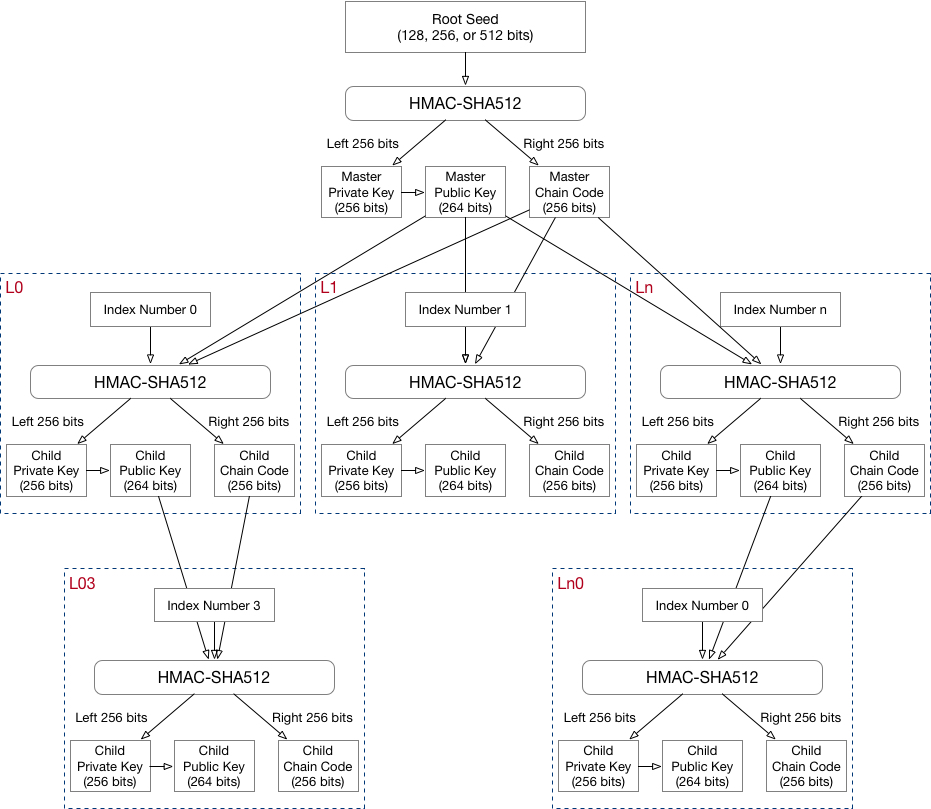
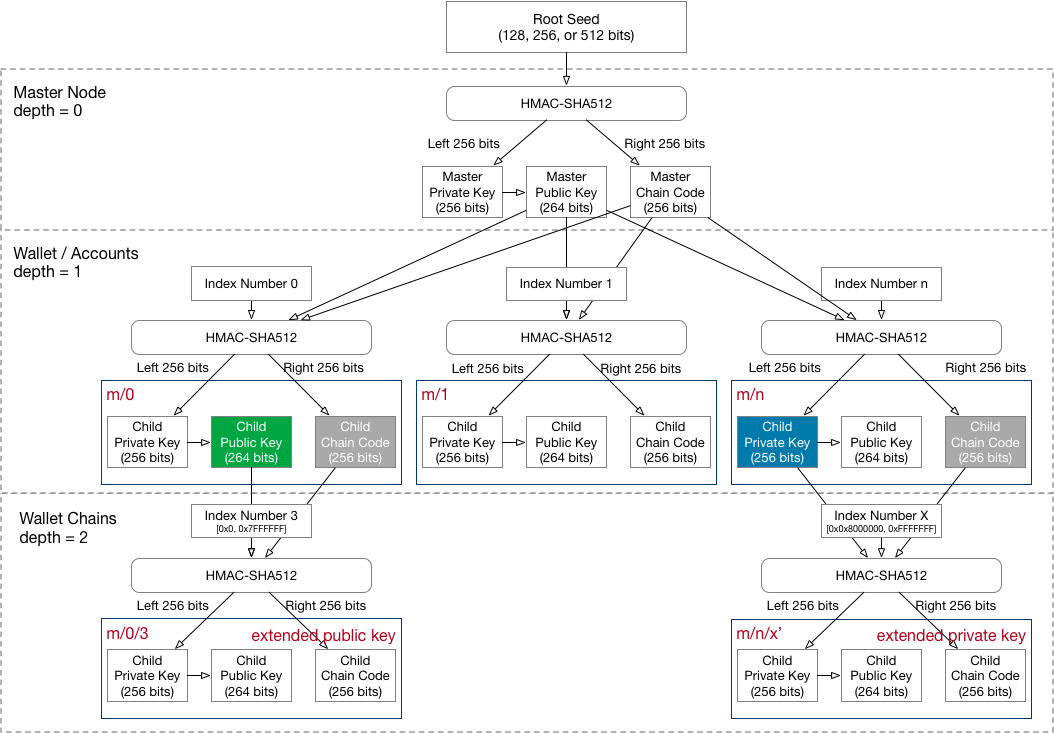
Site updated: 2018-09-29 20:30:12

diff --git a/2018/09/23/generate-hd-wallet-by-bip39.html b/2018/09/23/generate-hd-wallet-by-bip39.html
@@ -118,8 +118,10 @@
 <meta property="og:image" content="http://stevenocean.github.io/2018/09/23/generate-hd-wallet-by-bip39/generate-seed.jpg">
 <meta property="og:image" content="http://stevenocean.github.io/2018/09/23/generate-hd-wallet-by-bip39/generate-hd-master-key.jpg">
 <meta property="og:image" content="http://stevenocean.github.io/2018/09/23/generate-hd-wallet-by-bip39/hd-key-derivation-bip32.jpg">
+<meta property="og:image" content="http://stevenocean.github.io/2018/09/23/generate-hd-wallet-by-bip39/extend-pubkey.jpg">
+<meta property="og:image" content="http://stevenocean.github.io/2018/09/23/generate-hd-wallet-by-bip39/hardened_derivation.jpg">
 <meta property="og:image" content="http://stevenocean.github.io/2018/09/23/generate-hd-wallet-by-bip39/generate-hd-wallet.jpg">
-<meta property="og:updated_time" content="2018-09-20T06:35:11.691Z">
+<meta property="og:updated_time" content="2018-09-29T09:17:51.385Z">
 <meta name="twitter:card" content="summary">
 <meta name="twitter:title" content="基于 BIP-32 和 BIP-39 规范生成 HD 钱包（分层确定性钱包）">
 <meta name="twitter:description" content="关于 Bitcoin 的钱包 在 Bitcoin 中有两种主要类型的钱包，分别为：  非确定性钱包（Nodeterministic Wallet）：该钱包中的每个密钥都是从不同的随机数独立生成的，密钥彼此之间没有任何关系，这种钱包也被称为 JBOK 钱包（Just a Bunch Of Keys）； 确定性钱包（Deterministic Wallet）：其中所有的密钥都是从一个主密钥派生出来的，">
@@ -596,6 +598,8 @@
 <p>下面就将上面生成的种子作为 HD 钱包的根种子（root seed），任何 HD 钱包的根种子都可以重新创造整个 HD 钱包。</p>
 <img src="/2018/09/23/generate-hd-wallet-by-bip39/generate-hd-master-key.jpg">
 <p>将 root seed 输入到 HMAC-SHA512 算法中可以得到一个 512 位的 Hash，该 Hash 的左边 256 位作为 主私钥 m（Master Private Key），右边 256 位作为 主链码（Master Chain Code）。之后的 主公钥 M（Master Public Key，264 bits）可以通过 主私钥 m 生成。</p>
+<h2 id="子密钥衍生函数-child-key-derivation-ckd"><a class="header-anchor" href="#子密钥衍生函数-child-key-derivation-ckd"></a>子密钥衍生函数(Child Key Derivation, CKD)</h2>
+<p>如上所述，给定 Parent extended key 以及一个索引号(index)，就可以生成相应的 child extended key。</p>
 <p>各个子层级的密钥生成规则如下图：</p>
 <img src="/2018/09/23/generate-hd-wallet-by-bip39/hd-key-derivation-bip32.jpg">
 <p>从上图可以看到，HD 的密钥生成如下几个参数：</p>
@@ -608,7 +612,40 @@
 <p>另外，上面的过程是可以递归下去的，图中的 <strong><em>Child Private Key</em></strong> 可以作为其下一层级的 <strong><em>Parent Private Key</em></strong>。</p>
 </blockquote>
 <p>通过将 (Parent Publick Key, Parent Chain Code, Index Number) 输入至 HMAC-SHA512 算法中，我们就可以生成其子密钥，并且我们可以通过调整 Index Number 来生成同一层级的多个子密钥。</p>
-<p>HD Wallet 的分层密钥生成结构图如下：</p>
+<h2 id="关于扩展密钥-extended-key"><a class="header-anchor" href="#关于扩展密钥-extended-key"></a>关于扩展密钥(extended key)</h2>
+<p>因为这个密钥衍生函数是单向的，所有 子密钥 都是不能够被用来推导出它们的 父密钥 的，也不能推导出同层级的 姊妹密钥 的，只有 父密钥 和 父链码（又是由 Parent 的 Parent 层级的 密钥 和 链码 生成） 可以推导出所有的 子密钥 和 子链码，后续也就可以生成相应的 子公钥 以及地址，并且用于对交易进行签名。</p>
+<p>将 密钥 Key 和 Chain Code 结合起来称为 <strong>扩展密钥（extended key）</strong>，可以通过 <strong>扩展密钥</strong> 来生成自其而下的所有分支。</p>
+<p><strong>扩展密钥</strong> 中提供的密钥可以为 私钥 或者 公钥，和 链码 结合起来分别称为 <strong>扩展私钥（extended private key）</strong> 和 <strong>扩展公钥（extended public key）</strong>，并且分别记为 (k, c) 和 (K, c)，其中公钥 K = point(k)。</p>
+<p>我们可以从 <strong>扩展私钥</strong> 推导出 <strong>扩展公钥</strong>，而反之则不可以，因此对于某些交易场景（如电商），可以为每笔交易生成一个新的公钥和地址来收款，而扩展私钥可以被存储在纸质钱包或者硬件钱包中，用于安全的离线签署交易。可以看到 <strong>扩展公钥</strong> 的安全性相对高一些，下图为通过 扩展 父公钥 来衍生 子私钥进而生成子公钥 的传递机制：</p>
+<img src="/2018/09/23/generate-hd-wallet-by-bip39/extend-pubkey.jpg">
+<blockquote>
+<p><strong>扩展密钥</strong> 也通过 Base58Check 进行编码，<strong>扩展私钥</strong> 和 <strong>扩展公钥</strong> 的编码分别以 <strong>xprv</strong> 和 <strong>xpub</strong> 作为前缀。</p>
+</blockquote>
+<h2 id="硬化衍生子密钥-又是什么鬼？"><a class="header-anchor" href="#硬化衍生子密钥-又是什么鬼？"></a><strong>硬化衍生子密钥</strong> 又是什么鬼？</h2>
+<p>上面的 <strong>扩展密钥</strong>（尤其是 <strong>扩展公钥</strong>） 生成的钱包应该够安全的了，但是设计这一套钱包密钥生成算法的工程师觉得还不够：即使暴露了 <strong>扩展公钥</strong>，也就是暴露了 <strong>子公钥</strong> 和 <strong>Chain Code</strong>，但是如果哪天不小心，你那个 <strong>子私钥</strong> 也不小心泄露了，那么以这个 子密钥和 Chain Code 作为根的那棵树上挂着的所有的密钥也都能够被推导出来了，这TM太危险了（是的，你要是把你的 root seed 泄露了，估计够你哭三天三夜的~没币除外）。</p>
+<p>然后 HD 钱包又提出来一种叫做 <strong>硬化衍生(hardened derivation)</strong> 的衍生函数，从上面 <strong>扩展公钥</strong> 生成的图中可以看到 子密钥 和 子链码 都是由 父公钥 和 父链码 通过 HMAC-SHA512 生成的（也都是相对比较容易“曝光”的），而 <strong>硬化衍生</strong> 函数将 父公钥 换成 父私钥 来推导出 子密钥 和 子链码，如下图：</p>
+<img src="/2018/09/23/generate-hd-wallet-by-bip39/hardened_derivation.jpg">
+<ul>
+<li>图上标识了 索引号码 根据 正常衍生 和 硬化衍生 不同，索引的范围不同，对于正常衍生的索引号范围为 [0x0, 0x7FFFFFFF]，而硬化衍生的索引号范围为 [0x80000000, 0xFFFFFFFF]</li>
+</ul>
+<h2 id="总结"><a class="header-anchor" href="#总结"></a>总结</h2>
+<p>针对 <strong>扩展密钥</strong> 的学习，可以看到有三种生成规则，分别如下：</p>
+<ol>
+<li>Private parent key -&gt; private child key</li>
+</ol>
+<p>即，从 父扩展私钥 和 父链码 计算生成 子扩展私钥 和 子链码。用公式表示就是：</p>
+<figure class="highlight plain"><table><tr><td class="gutter"><pre><span class="line">1</span><br></pre></td><td class="code"><pre><span class="line">CKDpriv((kpar, cpar), i) → (ki, ci)</span><br></pre></td></tr></table></figure>
+<ol start="2">
+<li>Public parent key -&gt; public child key</li>
+</ol>
+<p>即，从 父扩展公钥 和 父链码 计算生成 子扩展公钥 和 子链码。公式表示如下：</p>
+<figure class="highlight plain"><table><tr><td class="gutter"><pre><span class="line">1</span><br></pre></td><td class="code"><pre><span class="line">CKDpub((Kpar, cpar), i) → (Ki, ci)</span><br></pre></td></tr></table></figure>
+<ol start="3">
+<li>Private parent key -&gt; public child key</li>
+</ol>
+<p>即，从 父扩展私钥 和 父链码 计算生成 子扩展公钥 和 子链码。公式表示如下：</p>
+<figure class="highlight plain"><table><tr><td class="gutter"><pre><span class="line">1</span><br></pre></td><td class="code"><pre><span class="line">N((k, c)) → (K, c)</span><br></pre></td></tr></table></figure>
+<p>下面是根据自己理解整理的 HD Wallet 的分层密钥生成结构图如下：</p>
 <img src="/2018/09/23/generate-hd-wallet-by-bip39/generate-hd-wallet.jpg">
 <h1>参考来源</h1>
 <ul>
@@ -620,6 +657,7 @@
 <li><strong><a href="https://github.com/bitcoin/bips/blob/master/bip-0044.mediawiki" target="_blank" rel="noopener">BIP-44 Multi-Account Hierarchy for Deterministic Wallets</a></strong></li>
 <li><strong><a href="https://en.wikipedia.org/wiki/PBKDF2" target="_blank" rel="noopener">PBKDF2 - Password-Based Key Derivation Function 2</a></strong></li>
 <li><strong><a href="https://en.wikipedia.org/wiki/HMAC" target="_blank" rel="noopener">HMAC - hash-based message authentication code</a></strong></li>
+<li><strong><a href="https://tools.ietf.org/html/rfc4231" target="_blank" rel="noopener">Identifiers and Test Vectors for HMAC-SHA-224, HMAC-SHA-256, HMAC-SHA-384, and HMAC-SHA-512</a></strong></li>
 </ul>
 
       
@@ -970,7 +1008,7 @@
             
 
             
-              <div class="post-toc-content"><ol class="nav"><li class="nav-item nav-level-1"><a class="nav-link" href="#undefined"><span class="nav-number">1.</span> <span class="nav-text">关于 Bitcoin 的钱包</span></a></li><li class="nav-item nav-level-1"><a class="nav-link" href="#undefined"><span class="nav-number">2.</span> <span class="nav-text">关于 BIP-39</span></a></li><li class="nav-item nav-level-1"><a class="nav-link" href="#undefined"><span class="nav-number">3.</span> <span class="nav-text">生成助记词</span></a></li><li class="nav-item nav-level-1"><a class="nav-link" href="#undefined"><span class="nav-number">4.</span> <span class="nav-text">从助记词生成种子</span></a></li><li class="nav-item nav-level-1"><a class="nav-link" href="#undefined"><span class="nav-number">5.</span> <span class="nav-text">从种子开始生成 HD 钱包</span></a></li><li class="nav-item nav-level-1"><a class="nav-link" href="#undefined"><span class="nav-number">6.</span> <span class="nav-text">参考来源</span></a></li></ol></div>
+              <div class="post-toc-content"><ol class="nav"><li class="nav-item nav-level-1"><a class="nav-link" href="#undefined"><span class="nav-number">1.</span> <span class="nav-text">关于 Bitcoin 的钱包</span></a></li><li class="nav-item nav-level-1"><a class="nav-link" href="#undefined"><span class="nav-number">2.</span> <span class="nav-text">关于 BIP-39</span></a></li><li class="nav-item nav-level-1"><a class="nav-link" href="#undefined"><span class="nav-number">3.</span> <span class="nav-text">生成助记词</span></a></li><li class="nav-item nav-level-1"><a class="nav-link" href="#undefined"><span class="nav-number">4.</span> <span class="nav-text">从助记词生成种子</span></a></li><li class="nav-item nav-level-1"><a class="nav-link" href="#undefined"><span class="nav-number">5.</span> <span class="nav-text">从种子开始生成 HD 钱包</span></a><ol class="nav-child"><li class="nav-item nav-level-2"><a class="nav-link" href="#子密钥衍生函数-child-key-derivation-ckd"><span class="nav-number">5.1.</span> <span class="nav-text">子密钥衍生函数(Child Key Derivation, CKD)</span></a></li><li class="nav-item nav-level-2"><a class="nav-link" href="#关于扩展密钥-extended-key"><span class="nav-number">5.2.</span> <span class="nav-text">关于扩展密钥(extended key)</span></a></li><li class="nav-item nav-level-2"><a class="nav-link" href="#硬化衍生子密钥-又是什么鬼？"><span class="nav-number">5.3.</span> <span class="nav-text">硬化衍生子密钥 又是什么鬼？</span></a></li><li class="nav-item nav-level-2"><a class="nav-link" href="#总结"><span class="nav-number">5.4.</span> <span class="nav-text">总结</span></a></li></ol></li><li class="nav-item nav-level-1"><a class="nav-link" href="#undefined"><span class="nav-number">6.</span> <span class="nav-text">参考来源</span></a></li></ol></div>
             
 
           </div>

diff --git a/2018/09/26/generate-btc-wallet-key.html b/2018/09/26/generate-btc-wallet-key.html
@@ -513,7 +513,7 @@
 <p>以下是上面的函数生成的一个随机的以 16 进制串表示的私钥：</p>
 <figure class="highlight plain"><table><tr><td class="gutter"><pre><span class="line">1</span><br></pre></td><td class="code"><pre><span class="line">f7387afb5ae15aac9acccc8d8823c8a1c2443b72a042b2274fc7433b4f0dd2f4</span><br></pre></td></tr></table></figure>
 <p>也可以通过 bitcoin-cli 来生成一个私钥和地址，如下：</p>
-<figure class="highlight shell"><table><tr><td class="gutter"><pre><span class="line">1</span><br><span class="line">2</span><br><span class="line">3</span><br><span class="line">4</span><br><span class="line">5</span><br><span class="line">6</span><br><span class="line">7</span><br><span class="line">8</span><br><span class="line">9</span><br><span class="line">10</span><br><span class="line">11</span><br><span class="line">12</span><br><span class="line">13</span><br></pre></td><td class="code"><pre><span class="line"><span class="meta">$</span> bitcoin-cli -testnet --datadir=/var/bitcoin/testnet getnewaddress</span><br><span class="line">2NBqPd4bmXEXXt3SqjxdMEYv3q46j6KMszq</span><br><span class="line"></span><br><span class="line"><span class="meta">$</span> bitcoin-cli -testnet --datadir=/var/bitcoin/testnet dumpprivkey 2NBqPd4bmXEXXt3SqjxdMEYv3q46j6KMszq</span><br><span class="line">cQmW1c27ZFYy6XQxvUD6yMgbTm4cDSJYaaCM8NPKZZA4oMMdGB5X</span><br><span class="line"></span><br><span class="line"><span class="meta">$</span> bx base58check-decode cQmW1c27ZFYy6XQxvUD6yMgbTm4cDSJYaaCM8NPKZZA4oMMdGB5X</span><br><span class="line">wrapper</span><br><span class="line">&#123;</span><br><span class="line">    checksum 2258650717</span><br><span class="line">    payload 5f115a837d4c782cd0e5214fe67a0434895dd7264e9949c40fe1cc129f1d9d2701</span><br><span class="line">    version 239</span><br><span class="line">&#125;</span><br></pre></td></tr></table></figure>
+<figure class="highlight shell"><table><tr><td class="gutter"><pre><span class="line">1</span><br><span class="line">2</span><br><span class="line">3</span><br><span class="line">4</span><br><span class="line">5</span><br><span class="line">6</span><br><span class="line">7</span><br><span class="line">8</span><br><span class="line">9</span><br><span class="line">10</span><br><span class="line">11</span><br><span class="line">12</span><br><span class="line">13</span><br></pre></td><td class="code"><pre><span class="line"><span class="meta">$</span><span class="bash"> bitcoin-cli -testnet --datadir=/var/bitcoin/testnet getnewaddress</span></span><br><span class="line">2NBqPd4bmXEXXt3SqjxdMEYv3q46j6KMszq</span><br><span class="line"></span><br><span class="line"><span class="meta">$</span><span class="bash"> bitcoin-cli -testnet --datadir=/var/bitcoin/testnet dumpprivkey 2NBqPd4bmXEXXt3SqjxdMEYv3q46j6KMszq</span></span><br><span class="line">cQmW1c27ZFYy6XQxvUD6yMgbTm4cDSJYaaCM8NPKZZA4oMMdGB5X</span><br><span class="line"></span><br><span class="line"><span class="meta">$</span><span class="bash"> bx base58check-decode cQmW1c27ZFYy6XQxvUD6yMgbTm4cDSJYaaCM8NPKZZA4oMMdGB5X</span></span><br><span class="line">wrapper</span><br><span class="line">&#123;</span><br><span class="line">    checksum 2258650717</span><br><span class="line">    payload 5f115a837d4c782cd0e5214fe67a0434895dd7264e9949c40fe1cc129f1d9d2701</span><br><span class="line">    version 239</span><br><span class="line">&#125;</span><br></pre></td></tr></table></figure>
 <p>其中：</p>
 <ul>
 <li><strong>getnewaddress</strong> 命令来生成钱包地址（内部已生成和保存了私钥）；</li>
@@ -579,7 +579,7 @@
 <p>完整的 <a href="https://en.bitcoin.it/wiki/List_of_address_prefixes" target="_blank" rel="noopener">address prefix 参考</a></p>
 </blockquote>
 <p>其中 私钥 的前缀为 128（即 0x80），对应的编码后前缀为 5，如下为我们的私钥编码后的：</p>
-<figure class="highlight shell"><table><tr><td class="gutter"><pre><span class="line">1</span><br><span class="line">2</span><br><span class="line">3</span><br></pre></td><td class="code"><pre><span class="line"><span class="meta">$</span> bx base58check-encode --version 128</span><br><span class="line">de97fdbdb823a197603e1f2cb8b1bded3824147e88ebd47367ba82d4b5600d73</span><br><span class="line">5KWKSRnmzxCjUP1NKR4dNyyHhaZWSGRTbGzBnm1vwgwpoe2AVGQ</span><br></pre></td></tr></table></figure>
+<figure class="highlight shell"><table><tr><td class="gutter"><pre><span class="line">1</span><br><span class="line">2</span><br><span class="line">3</span><br></pre></td><td class="code"><pre><span class="line"><span class="meta">$</span><span class="bash"> bx base58check-encode --version 128</span></span><br><span class="line">de97fdbdb823a197603e1f2cb8b1bded3824147e88ebd47367ba82d4b5600d73</span><br><span class="line">5KWKSRnmzxCjUP1NKR4dNyyHhaZWSGRTbGzBnm1vwgwpoe2AVGQ</span><br></pre></td></tr></table></figure>
 <p>下图为 Base58Check 的编码过程：</p>
 <img src="/2018/09/26/generate-btc-wallet-key/base58-encoding-process.jpg">
 <p>在 bitcoin 中大多数需要向用户展示的数据都是使用的 Base58Check 编码格式。</p>

diff --git a/css/main.css b/css/main.css
@@ -1831,7 +1831,7 @@ pre .javascript .function {
   width: 4px;
   height: 4px;
   border-radius: 50%;
-  background: #4aff01;
+  background: #24e7ff;
 }
 .links-of-blogroll {
   font-size: 13px;

diff --git a/404.html b/404.html
@@ -116,6 +116,8 @@
 <meta name="twitter:title" content="404 Not Found">
 
 
+  
+
 
   <link rel="alternate" href="/atom.xml" title="未来边缘" type="application/atom+xml" />
 

diff --git a/about/index.html b/about/index.html
@@ -116,8 +116,6 @@
 <meta name="twitter:title" content="About">
 
 
-  
-
 
   <link rel="alternate" href="/atom.xml" title="未来边缘" type="application/atom+xml" />
 
